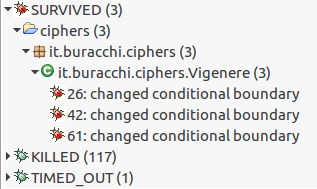
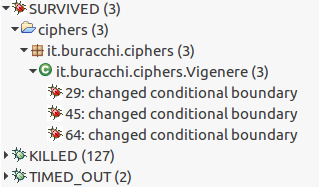
Conclusioni added

diff --git a/Relazione/chapters/strumenti.tex b/Relazione/chapters/strumenti.tex
@@ -8,10 +8,17 @@
 			\item \emph{Log4J}: framework per il logging (non realmente necessario ma utilizzato dal Main per stampare messaggi a schermo)
 		\end{itemize}
 		
+	\section{GitHub}
+		Il progetto è raggiungibile a questo link https://github.com/ma-buracchi/TAPciphers. 
+		
+		Inizialmente, per prendere dimestichezza con il processo di branching e di pull request, le classi Shift, Substitution e InputManager sono state create appunto su tre branch diversi e riportate sul ramo master tramite una merge di tre pull request. Essendo comunque un progetto svolto da una singola persona, le rimanenti classi sono state sviluppate direttamente sul ramo master. Un'eccezione è stata fatta per questa relazione, sviluppata su un altro ramo e successivamente mergiata sul ramo master sempre tramite pull request.	
+		
 	\section{Travis}
 		Travis viene utilizzato per la continuous integration. Il relativo file di configurazione è stato settato per utilizzare la jdk8 necessaria alla compilazione del progetto e per fornire il risultato della code coverage a coveralls.
 		
 		Una build automatica viene lanciata ad ogni push effettuata sul repository GitHub contenente il progetto.
+		
+		Il progetto è raggiungibile al seguente link: https://travis-ci.org/ma-buracchi/TAPciphers
 		
 	\section{Coveralls}
 		Coveralls riceve i dati della coverage direttamente da Travis.
@@ -54,11 +61,4 @@
 			\caption{Risultato della scansione}
 			\label{fig:sonaresult}
 		\end{figure}
-		
-	\section{GitHub}
-		Il progetto è raggiungibile a questo link https://github.com/ma-buracchi/TAPciphers. 
-		
-		Inizialmente, per prendere dimestichezza con il processo di branching e di pull request, le classi Shift, Substitution e InputManager sono state create appunto su tre branch diversi e riportate sul ramo master tramite una merge di tre pull request. Essendo comunque un progetto svolto da una singola persona, le rimanenti classi sono state sviluppate direttamente sul ramo master. Un'eccezione è stata fatta per questa relazione, sviluppata su un altro ramo e successivamente mergiata sul ramo master sempre tramite pull request.
-		
-		
 		

diff --git a/Relazione/chapters/conclusioni.tex b/Relazione/chapters/conclusioni.tex
@@ -1,1 +1,8 @@
 \chapter{Conclusioni}
+	In questo progetto la cosa che più ha cambiato il mio approccio alla programmazione è stato l'utilizzo di \emph{SonarQube}. Buona parte delle sue segnalazioni erano infatti concetti per me assolutamente nuovi e ho passato molto tempo ad approfondire i vari aspetti legati all'infrazione di tali regole e ai miglioramenti apportati al codice dalla prima stesura.
+	
+	L'utilizzo della tecnica di \emph{mocking} era per me completamente nuova e non è stato semplice entrare bene nella meccanica. Una volta compresa l'idea fondamentale che c'è sotto (quella di rendere ogni classe indipendente e testabile singolarmente) risulta però abbastanza naturale il suo utilizzo e migliora di tanto la qualità dei testing di una singola classe.
+	
+	Avevo già implementato una versione simile di questo progetto e, quando ho dovuto utilizzare la libreria \emph{google-collection} che implementa le \emph{HashMap} bidirezionali ho dovuto cercare e scaricare anche altre due dipendenze collegate a questa. Con Maven questo problema viene risolto automaticamente e quindi ho solo dovuto configurare il pom con la dipendenza che effettivamente serviva a me senza preoccuparmi di tutte le dipendenze transitive.
+	
+	Non utilizzando servizi particolari come DataBase o altro, in un primo momento non avevo previsto l'utilizzo di \emph{Docker}. Questo però si è rivelato fondamentale quando ho iniziato ad utilizzare \emph{SonarQube} che necessita di un proprio server. Grazie a \emph{Docker}, non c'è stato bisogno di scaricare un server di \emph{SonarQube} ma è stato eseguito direttamente all'interno di un container. 

diff --git a/Relazione/chapters/testing.tex b/Relazione/chapters/testing.tex
@@ -106,7 +106,7 @@
 			\label{fig:pit}
 		\end{figure}
 		
-		Dei 121 mutanti creati solamente tre sopravvivono. Questo però non viene ritenuto un problema perché i mutanti sopravvissuti non compromettono la funzionalità del programma. Il comportamento mutato è infatti il controllo del fatto che la lunghezza della chiave nel cifrario di Vigenère sia almeno quanto la lunghezza del messaggio che si vuole cifrare. Nel codice è stato utilizzato un < ma ovviamente, visto che la lunghezza della chiave non deve necessariamente essere uguale a quella del messaggio ma può essere superiore, cambiare questo controllo con un <= non cambia la funzionalità del metodo e non deve neanche generare un errore.
+		Dei 132 mutanti creati solamente tre sopravvivono. Questo però non viene ritenuto un problema perché i mutanti sopravvissuti non compromettono la funzionalità del programma. Il comportamento mutato è infatti il controllo del fatto che la lunghezza della chiave nel cifrario di Vigenère sia almeno quanto la lunghezza del messaggio che si vuole cifrare. Nel codice è stato utilizzato un < ma ovviamente, visto che la lunghezza della chiave non deve necessariamente essere uguale a quella del messaggio ma può essere superiore, cambiare questo controllo con un <= non cambia la funzionalità del metodo e non deve neanche generare un errore.
 		
 		L'unico effetto riscontrato sarà un prolungamento inutile della chiave che però non porta alcun problema.
 		
